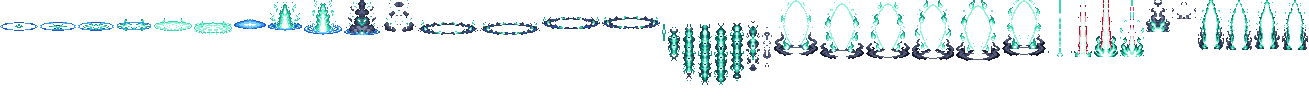
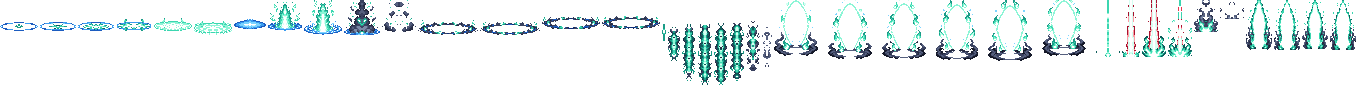
Karthus: Requiem's souls centred on his hovering body (5 px back, 4 px down; the user: 「这个盾没对齐啊」); main pack 0.176.1

Changed region(s): [[0.0, 0.0, 1.0, 0.8155]]

diff --git a/tools/art/import_karthus_fx.py b/tools/art/import_karthus_fx.py
@@ -46,6 +46,11 @@ HIT = (0, -14)                  # a hit on the upper body of a 34-46 px unit
 SOLES = (0, 11)                 # on the ground under a unit or a point
 OVERHEAD = (0, -31)             # over a unit's head (the mark 38-46 px over its soles)
 FLIGHT = (0, 0)                 # a projectile's own point
+# Requiem's souls round him as he hovers: his body (the staff left out) spans 19 px behind his standing point to 8 in
+# front and 9-55 px over the ground in the ult's hover frames (its middle 5 back and 32 up); the oval's middle in its
+# cell is 36 up, so the cell goes 5 back and 4 down (the user, 2026-10-20: 「这个盾没对齐啊」 - centred on his standing
+# point it covered his staff and left his claw and book outside)
+R_CAST = (-5, 15)
 seq = J.seq
 
 
@@ -101,7 +106,7 @@ FX = {
     "w_slow": (("feet", 1), loop(2, 150), [SOLES]),
     "w_shred": ("core", loop(2, 150), [OVERHEAD]),
     # Requiem: the souls round him for the channel (r_ch), the beam on each enemy champion
-    "r_cast": (("feet", 0), channel_frames(), [SOLES]),
+    "r_cast": (("feet", 0), channel_frames(), [R_CAST]),
     "r_hit": (("feet", 0), seq(range(6), [60, 70, 80, 90, 100, 100]), [SOLES]),
     # the add-on's Death Defied: the spirit's glow (a buff, looped)
     "p_spirit": (("feet", 0), loop(4, 150), [SOLES]),
